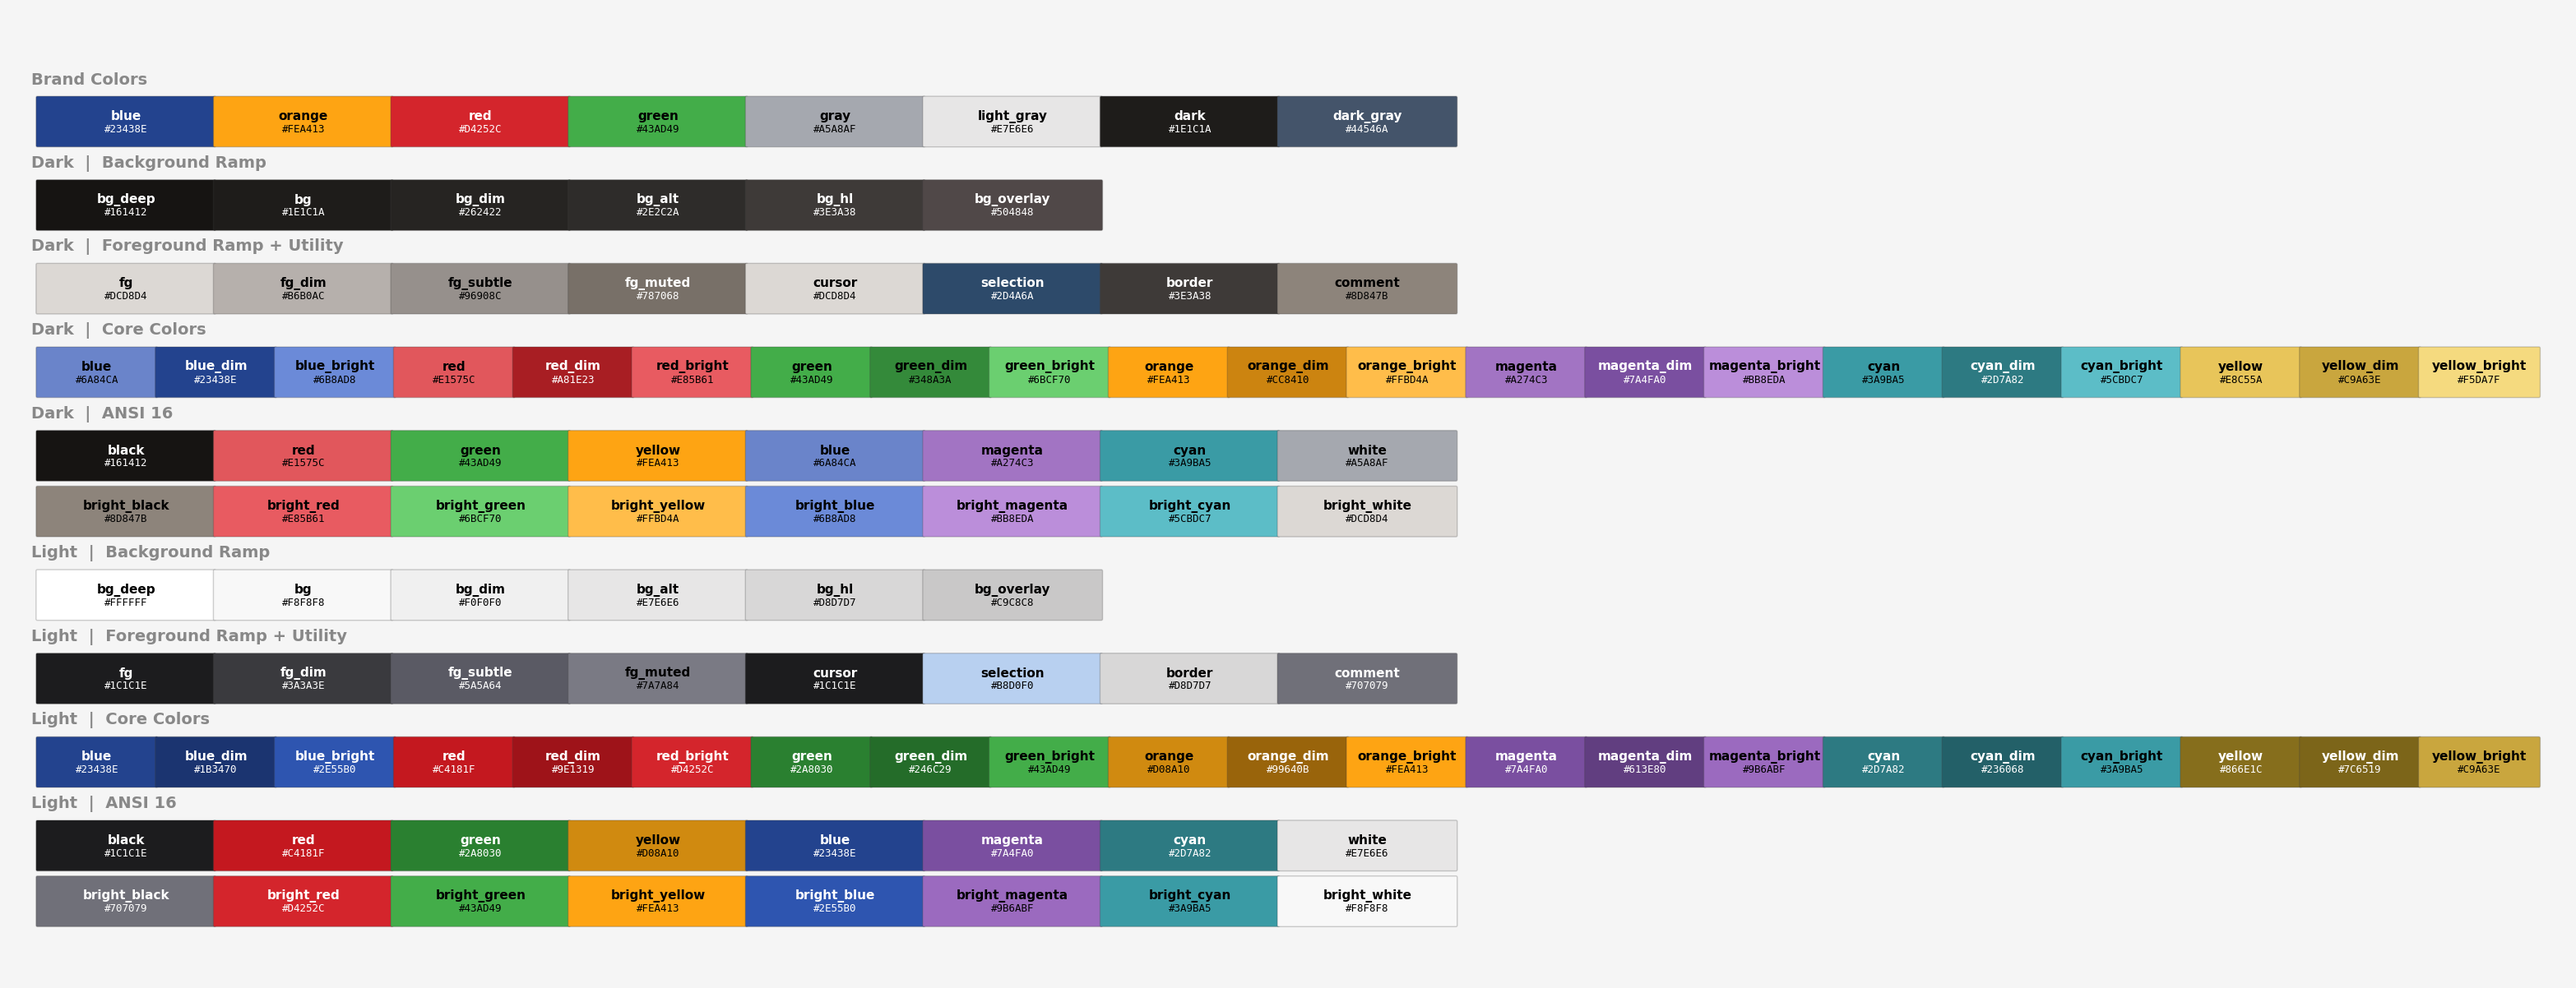
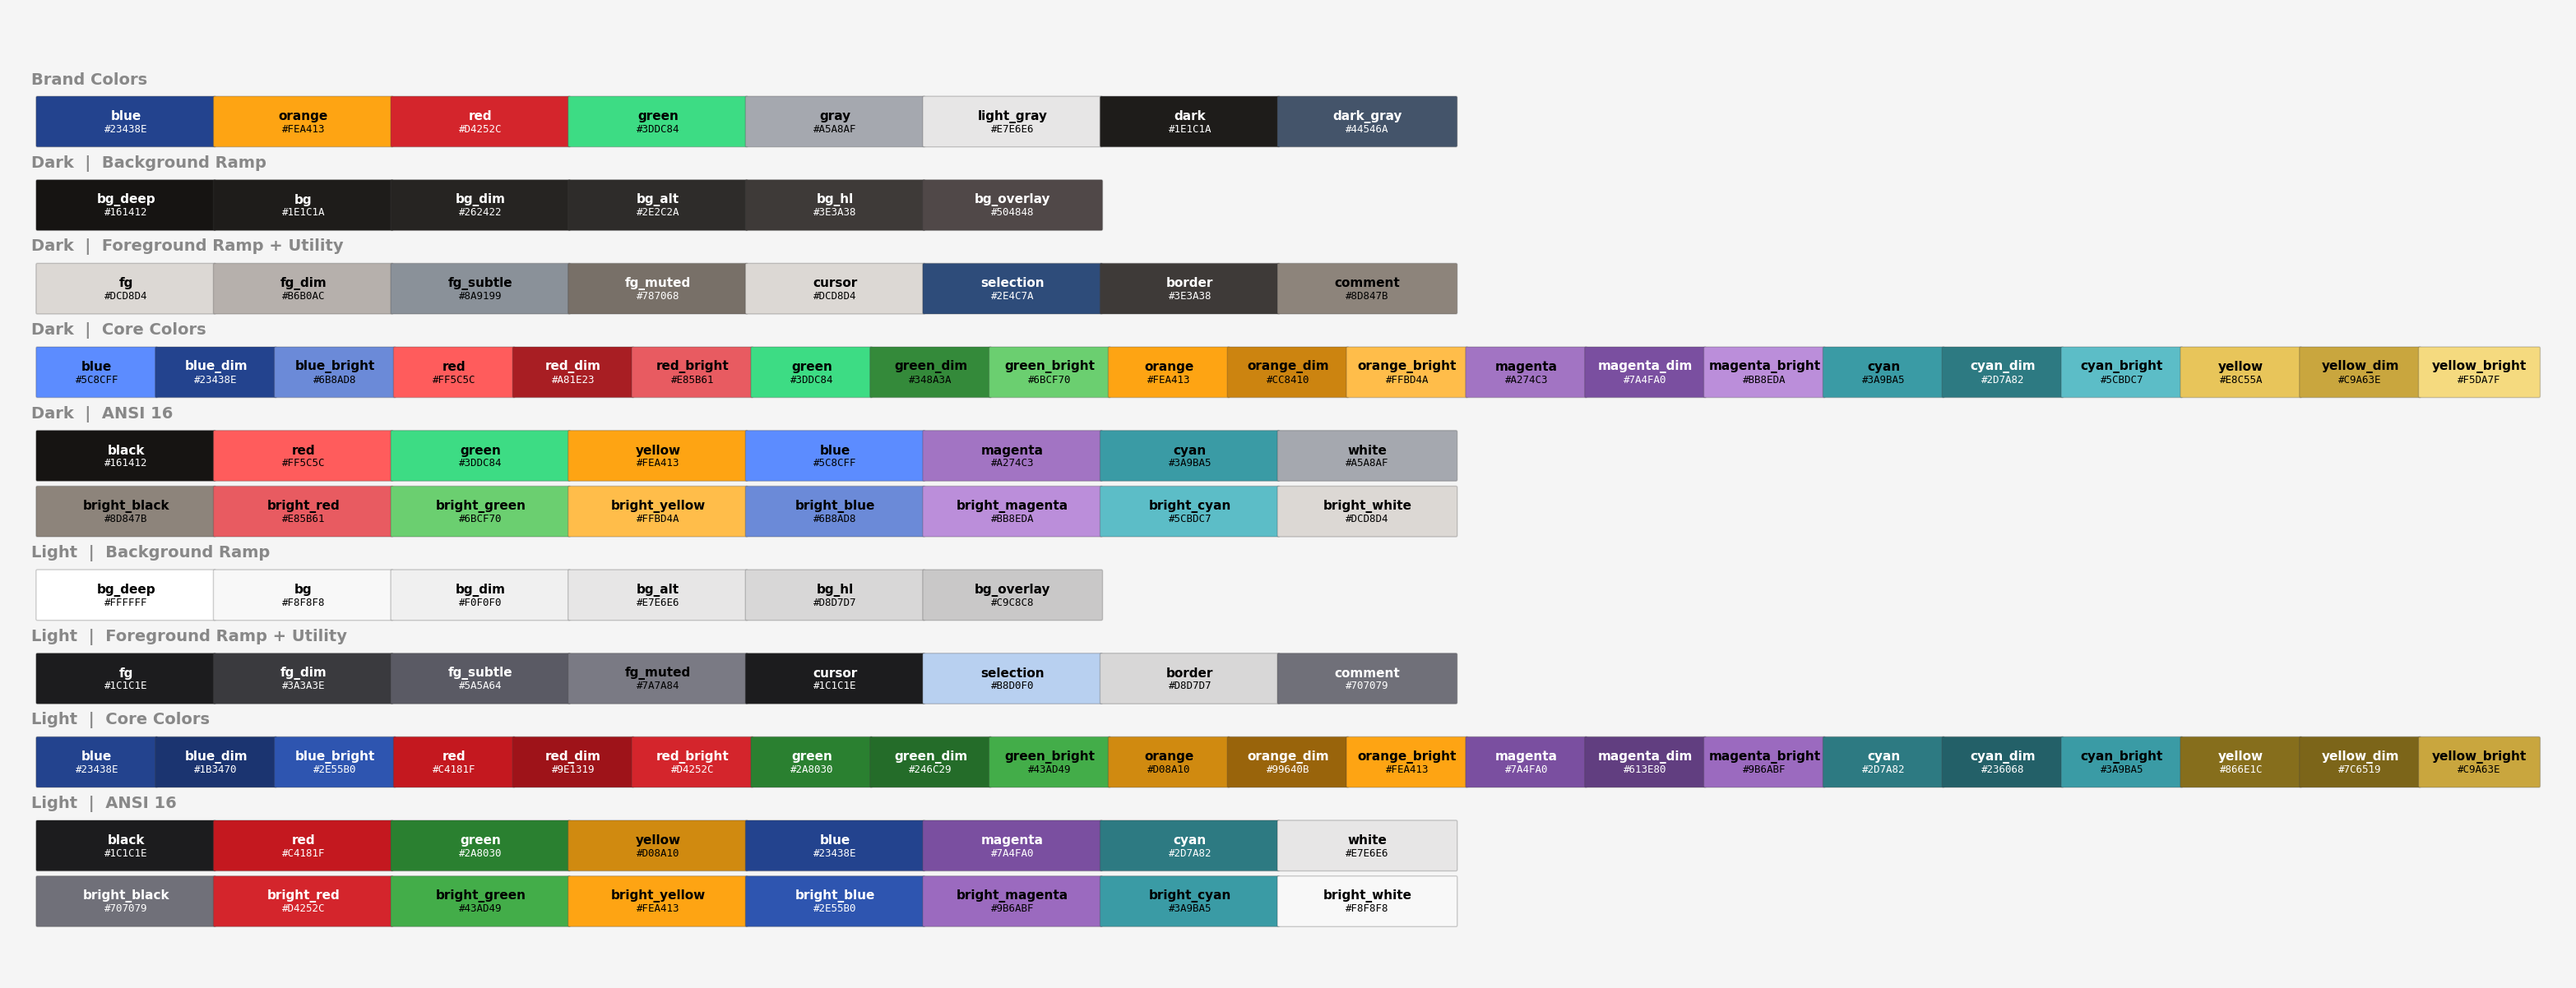
feat: refine dark palette for high-fidelity research (Sapphire/Slate-Brown)

diff --git a/src/nepes_palette/palette_data.py b/src/nepes_palette/palette_data.py
@@ -11,7 +11,7 @@ _brand = {
     "blue": "#23438E",
     "orange": "#FEA413",
     "red": "#D4252C",
-    "green": "#43AD49",
+    "green": "#3DDC84",
     "gray": "#A5A8AF",
     "light_gray": "#E7E6E6",
     "dark": "#1E1C1A",
@@ -30,16 +30,16 @@ _dark = {
     # Foreground ramp (4 steps: main -> dim -> subtle -> muted)
     "fg": "#DCD8D4",
     "fg_dim": "#B6B0AC",
-    "fg_subtle": "#96908C",
+    "fg_subtle": "#8A9199",
     "fg_muted": "#787068",
     # Core colors
-    "blue": "#6A84CA",
+    "blue": "#5C8CFF",
     "blue_dim": "#23438E",
     "blue_bright": "#6B8AD8",
-    "red": "#E1575C",
+    "red": "#FF5C5C",
     "red_dim": "#A81E23",
     "red_bright": "#E85B61",
-    "green": "#43AD49",
+    "green": "#3DDC84",
     "green_dim": "#348A3A",
     "green_bright": "#6BCF70",
     "orange": "#FEA413",
@@ -57,16 +57,16 @@ _dark = {
     "yellow_bright": "#F5DA7F",
     # Utility
     "cursor": "#DCD8D4",
-    "selection": "#2D4A6A",
+    "selection": "#2E4C7A",
     "border": "#3E3A38",
     "comment": "#8D847B",
     # ANSI 16
     "ansi": {
         "black": "#161412",
-        "red": "#E1575C",
-        "green": "#43AD49",
+        "red": "#FF5C5C",
+        "green": "#3DDC84",
         "yellow": "#FEA413",
-        "blue": "#6A84CA",
+        "blue": "#5C8CFF",
         "magenta": "#A274C3",
         "cyan": "#3A9BA5",
         "white": "#A5A8AF",
@@ -218,9 +218,21 @@ _light["chart"] = {
 # ── Computed: Subtle Borders & Glass Backgrounds ────────────
 _dark["border_subtle"] = rgba(_dark["border"], 0.5)
 _dark["bg_glass"] = rgba(_dark["bg"], 0.85)
+_dark["surface"] = {
+    "sunken": _dark["bg_deep"],
+    "base":   _dark["bg"],
+    "raised": _dark["bg_alt"],
+    "ring":   _brand["orange"],
+}
 
 _light["border_subtle"] = rgba(_light["border"], 0.5)
 _light["bg_glass"] = rgba(_light["bg"], 0.85)
+_light["surface"] = {
+    "sunken": _light["bg_deep"],
+    "base":   _light["bg"],
+    "raised": _light["bg_alt"],
+    "ring":   _brand["blue"],
+}
 
 # ── Motion / Animation Tokens ──────────────────────────────
 _motion = {
